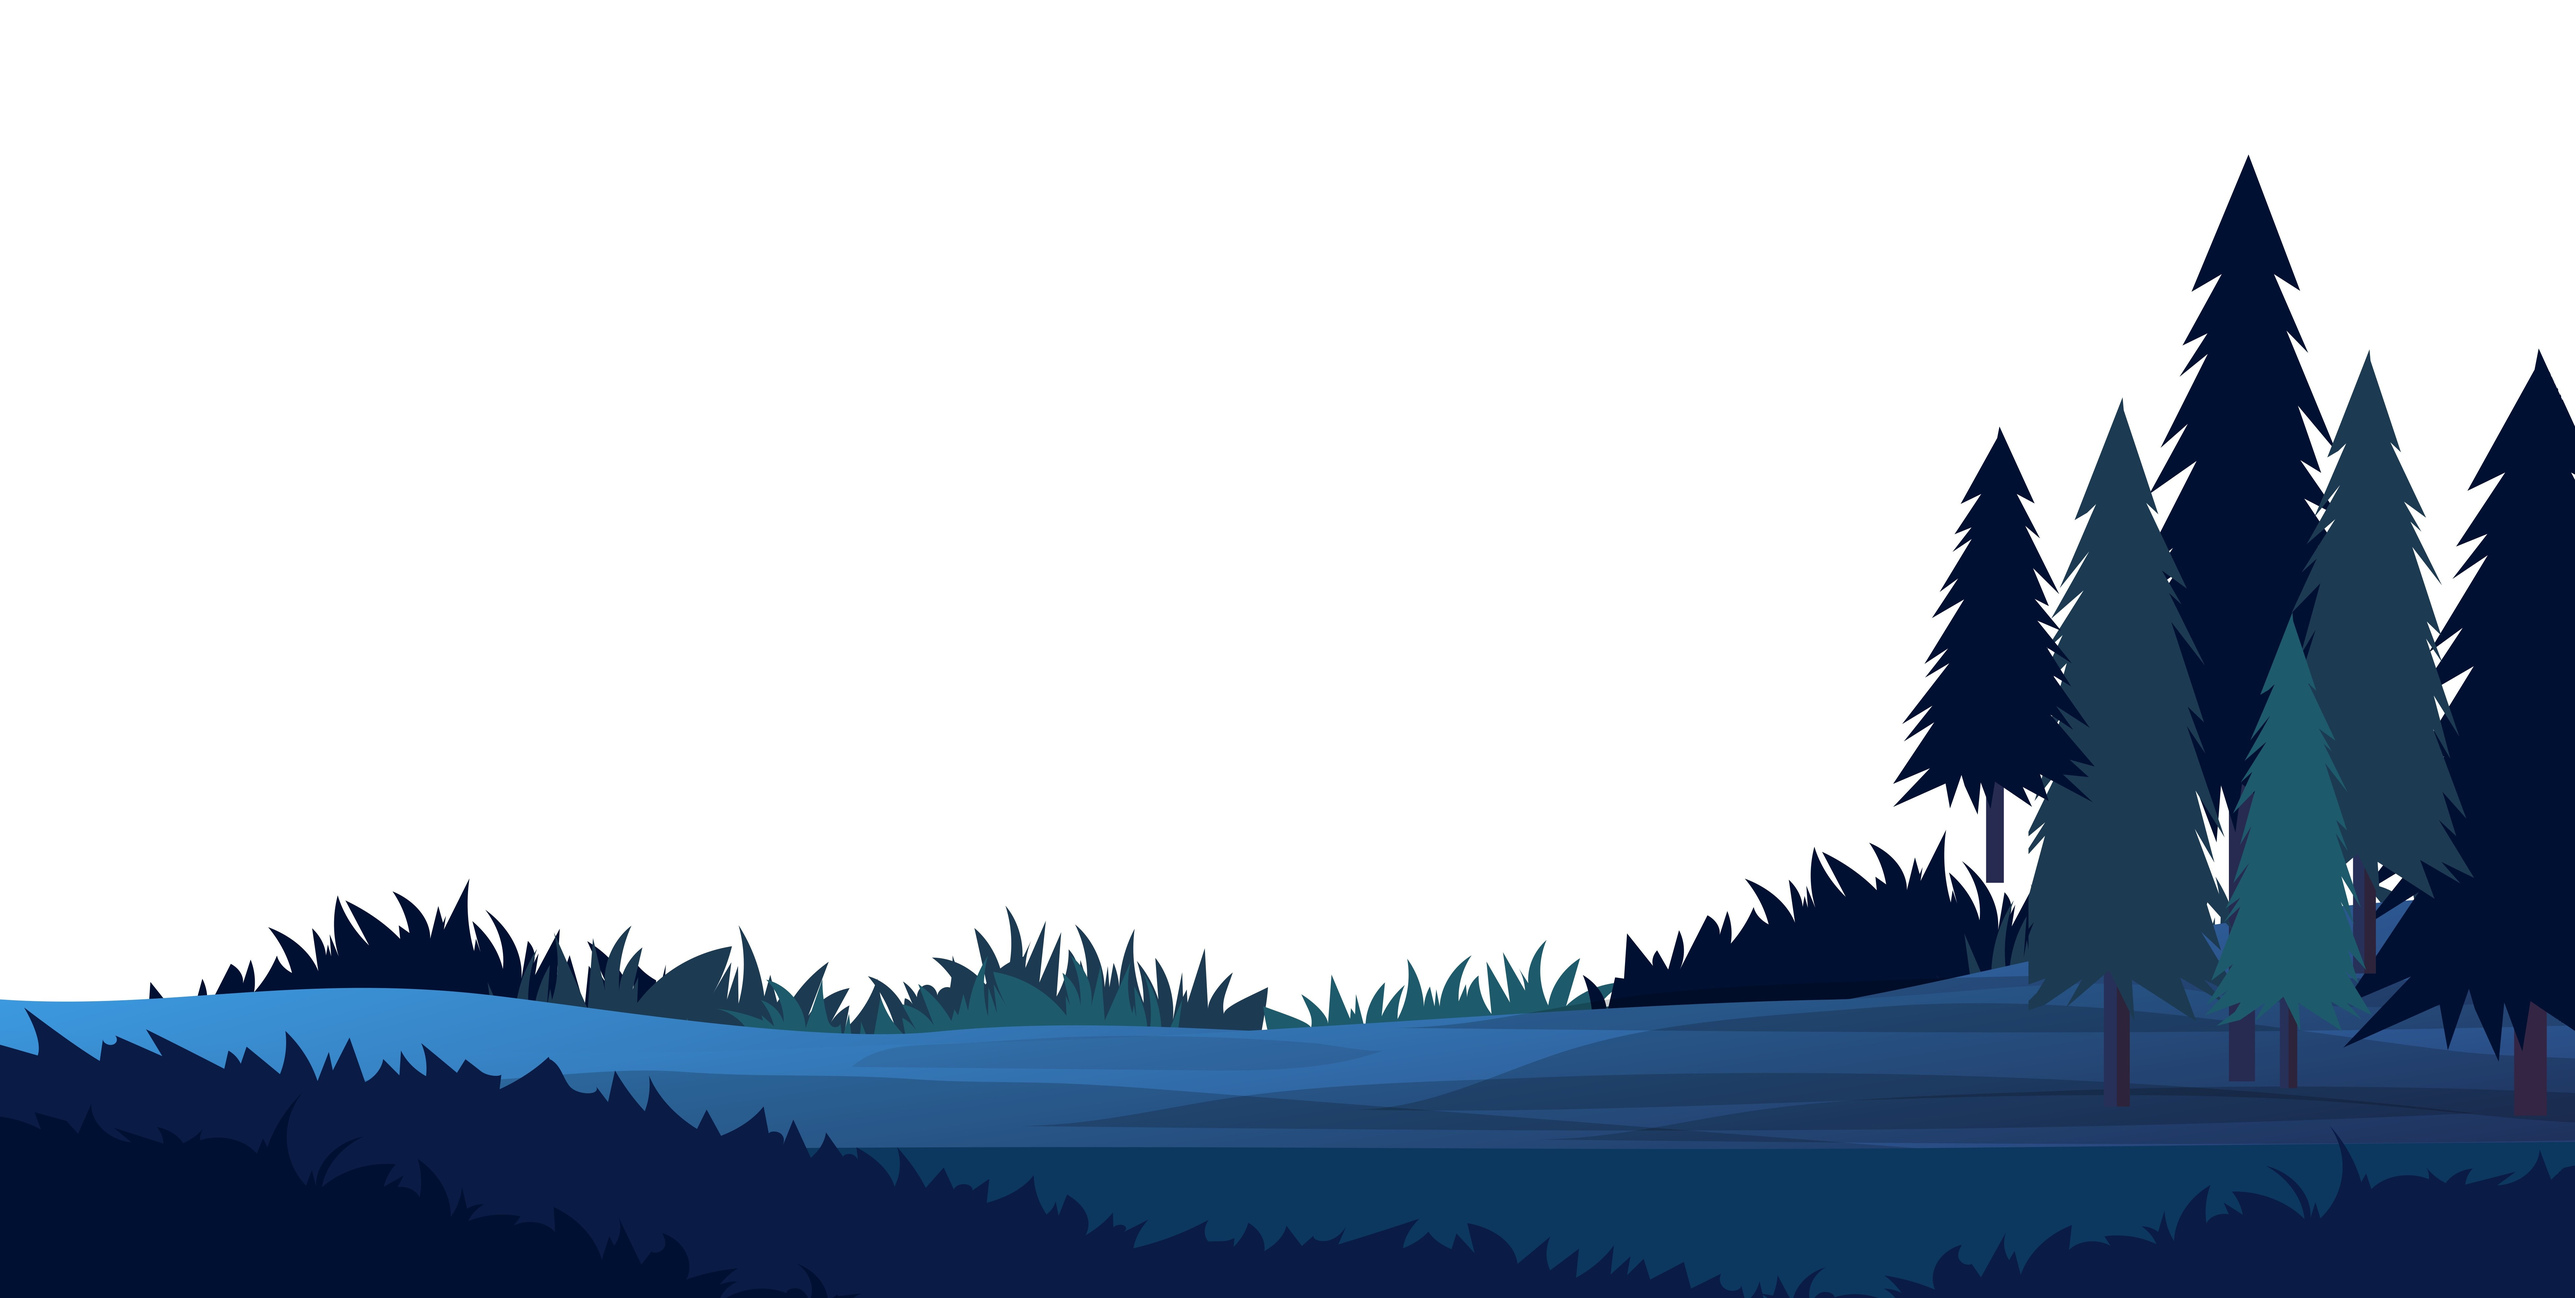
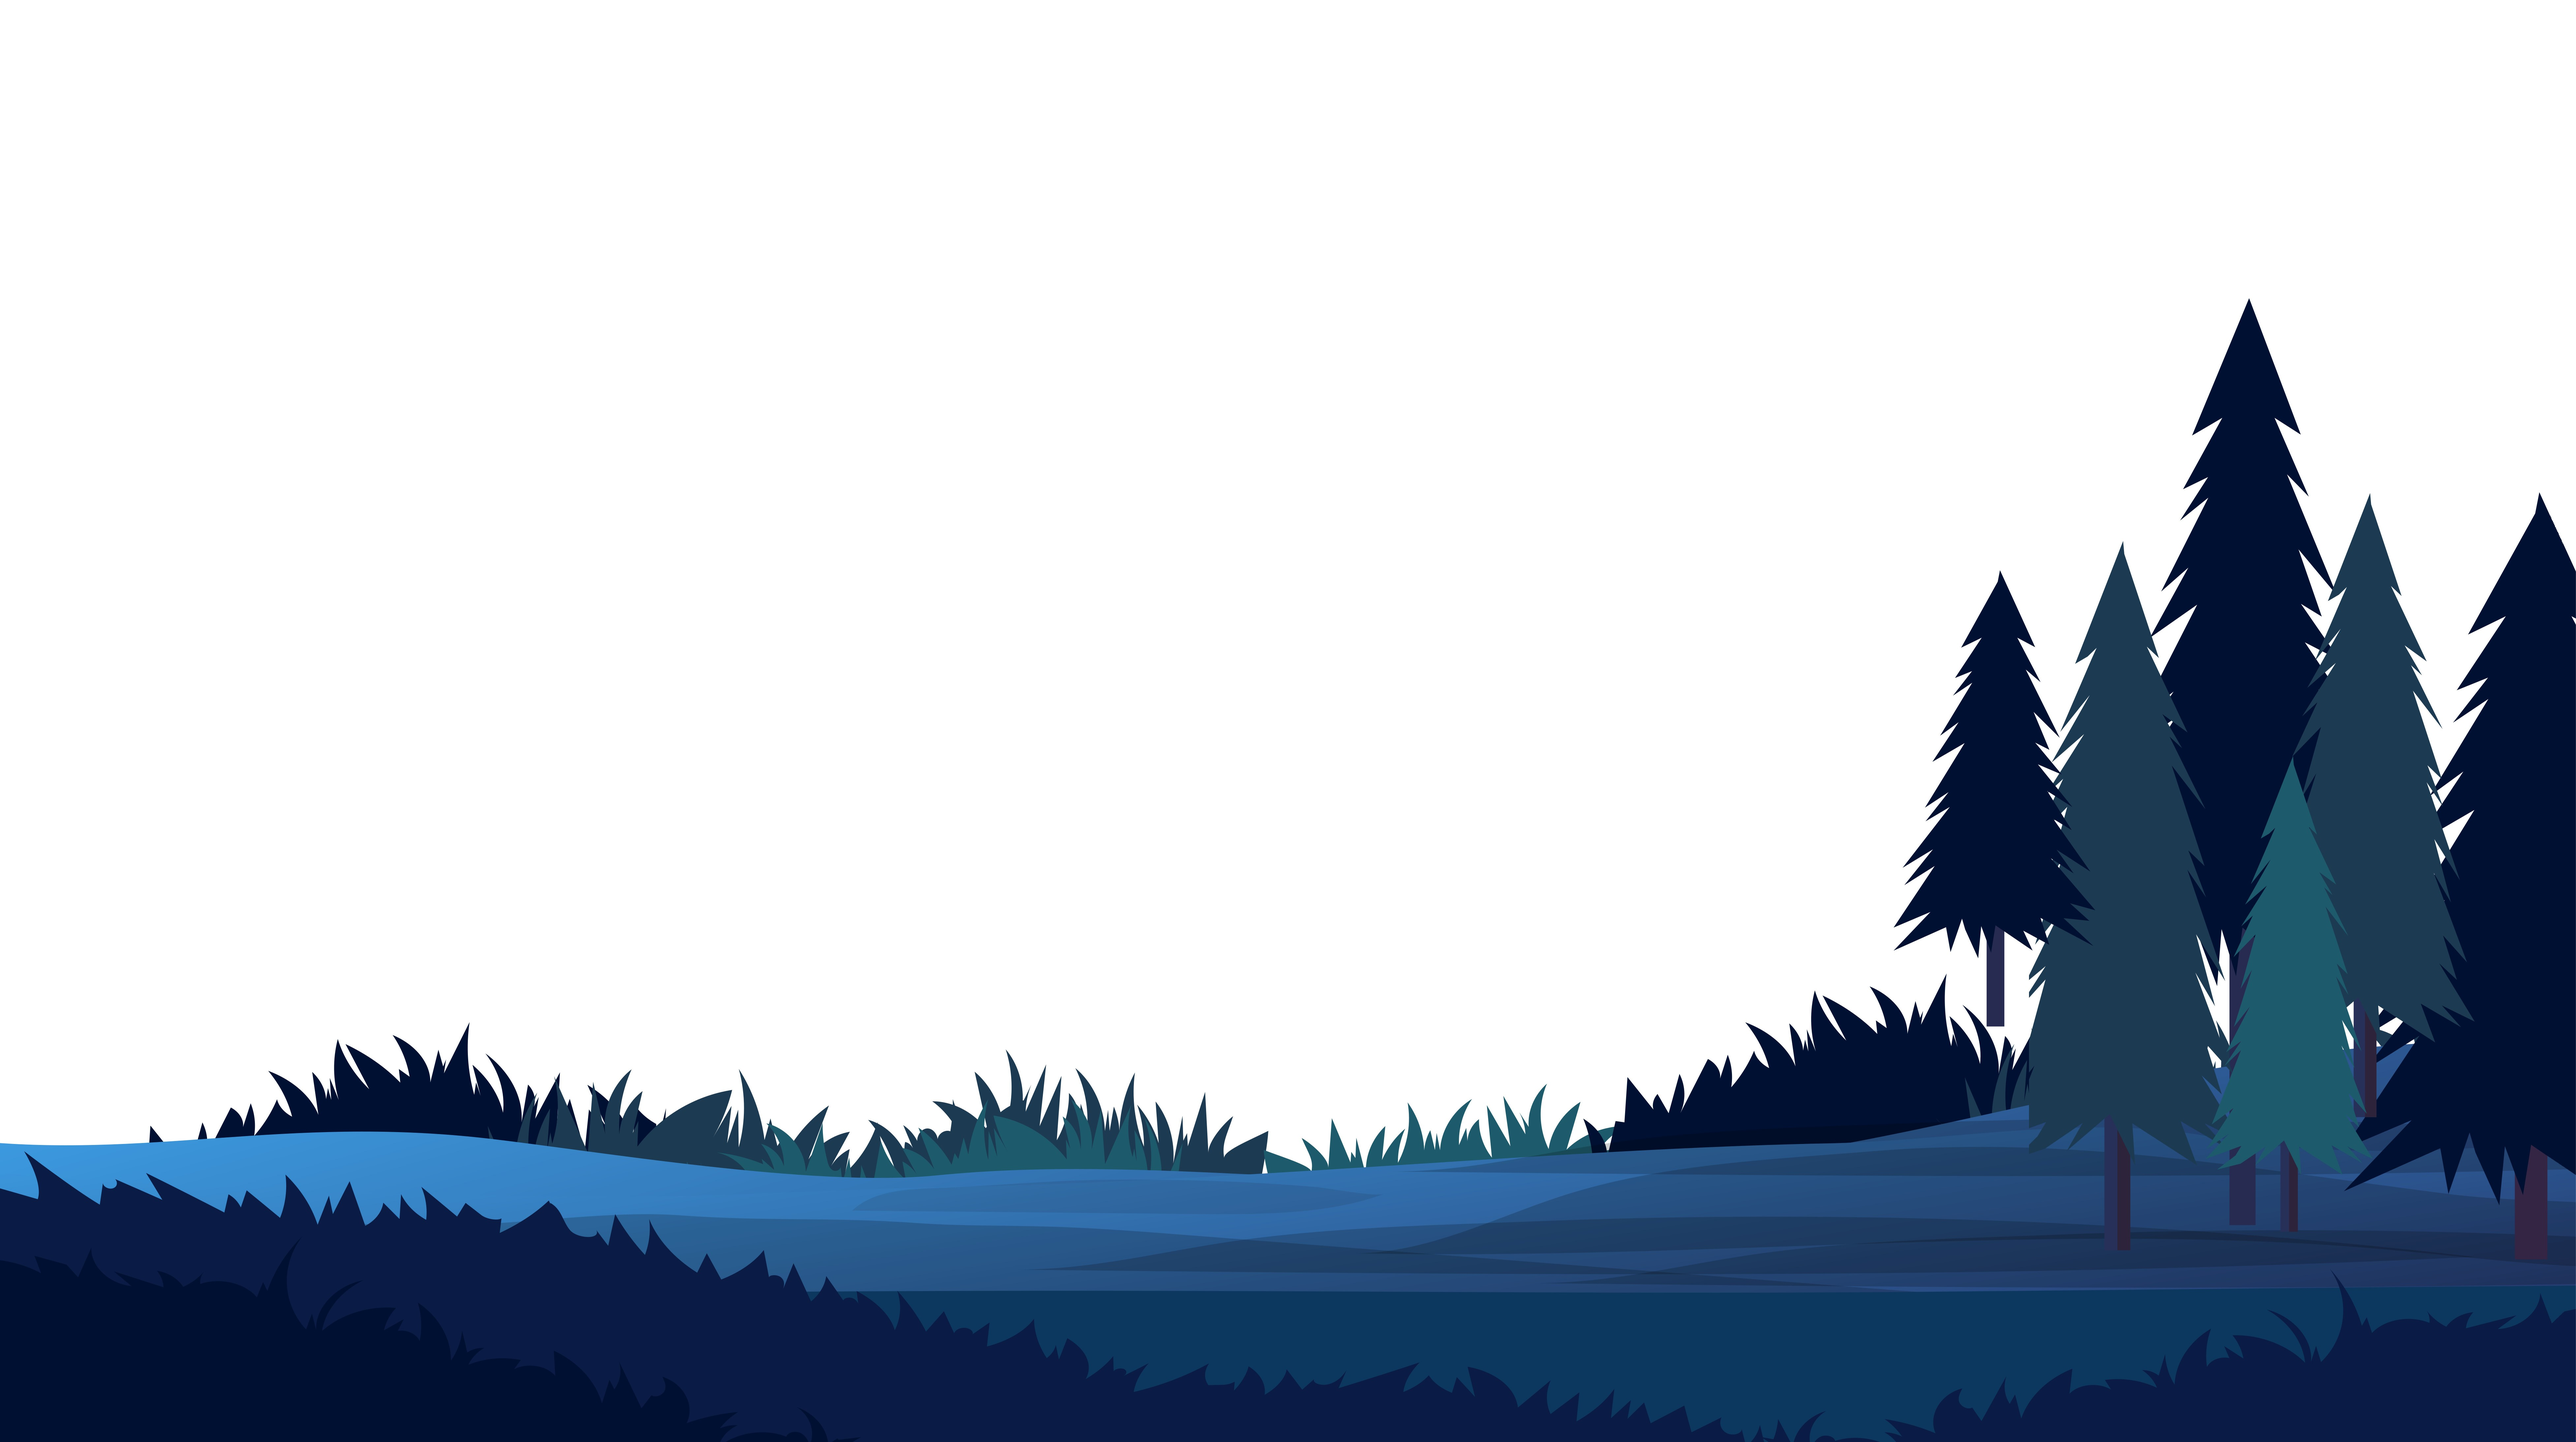
some changes

diff --git a/index.css b/index.css
@@ -1,17 +1,25 @@
 @import url("https://fonts.googleapis.com/css2?family=Lora:wght@600&family=Poppins:wght@400;500;700&display=swap");
-   body{
+*{
+  margin: 0;
+  padding: 0;
+}   
+.home{
         background-image: url('img/new.jpg');
+        background-repeat: no-repeat;
+        height: 103vh;
+        background-attachment: fixed;
         background-size: cover;
-        background-attachment: fixed; /* Optional, to make the background fixed while scrolling */
+        background-position: center;
+        
     }
     .nav_bar{
         display: flex;
-       
         align-items: center;
+        justify-content: center;
         
     }
     .nav_logo img{
-        margin-bottom: -20px;
+        margin-bottom: -10px;
        
     }
     .menu{
@@ -29,6 +37,10 @@
         list-style: none;
         padding: 10px;
         font-family:"poppins",sans-serif;
+    }
+    .nav_btn{
+        display: flex;
+        padding: 10px;
     }
     .nav_btn button{
         border-radius: 5px;
@@ -55,9 +67,9 @@
     font-family: "Times New Roman, Times, serif";
     font-size:3rem;  
 }
-.Home .Home_item{
-    margin-left: 20px;
-    margin-top: 90px;
+   .Home_item{
+    margin-left: 60px;
+    margin-top: 200px;
 }
 /*  bookin css */
 .Booking_form{
@@ -66,10 +78,14 @@
   display: flex;
   padding:35px;
   justify-content:space-evenly;
-  margin-left: -50px;
-  margin-top: 150px;
-  background-color: rgba(255, 255, 255, 0.177);
+  margin-top: 180px;
+  margin-left: 45px;
+  border-radius: 7px;
+  background-color: rgba(255, 255, 255, 0.362);
  
+}
+.book_m{
+    margin-top: -10px;
 }
 
 .Booking_form input{
@@ -80,9 +96,83 @@
     
     
 }
+
 .Booking_form select{
     width: 300px;
     height: 35px;
     border-radius: 4px;
     border-style: none;
 }
+
+
+
+
+
+
+
+.swiper-slide {
+    width: 300px;
+    height: 400px;
+    box-shadow: 0 15px 50px rgba(0, 0, 0, 0.2);
+    filter: blur(1px);
+    border-radius: 10px;
+    display: flex;
+    flex-direction: column;
+    justify-content: end;
+    align-items: self-start;
+  }
+  .swiper-slide span {
+    text-transform: uppercase;
+    color: #fff;
+    background: #1b7402;
+    padding: 7px 18px 7px 25px;
+    display: inline-block;
+    border-radius: 0 20px 20px 0px;
+    letter-spacing: 2px;
+    font-size: 0.8rem;
+    font-family: "Open Sans", sans-serif;
+  }
+  
+  .swiper-slide--one span {
+    background: #62667f;
+  }
+  .swiper-slide h2 {
+    color: #fff;
+    font-family: "Roboto", sans-serif;
+    font-weight: 400;
+    font-size: 1.3rem;
+    line-height: 1.4;
+    margin-bottom: 15px;
+    padding: 25px 45px 0 25px;
+  }
+  
+  .swiper-slide p {
+    color: #fff;
+    font-family: "Roboto", sans-serif;
+    font-weight: 300;
+    display: flex;
+    align-items: center;
+    padding: 0 25px 35px 25px;
+  }
+  .swiper-slide--one {
+    background: linear-gradient(to top, #0f2027, #203a4300, #2c536400),
+      url(img/photo.jpg)
+        no-repeat 50% 50% / cover;
+        filter: blur();
+  }
+  @media only screen and (min-width: 481px) and (max-width: 481px)  {
+    .home{
+      background-image: url('img/new.jpg');
+      background-repeat: no-repeat;
+      background-attachment: fixed;
+      background-size: cover;
+      
+  }
+  .menu{
+    list-style: none;
+    padding: 10px;
+    font-family:"poppins",sans-serif;
+    display: none;
+}
+  }
+  

diff --git a/index.html b/index.html
@@ -7,6 +7,8 @@
   <link rel="stylesheet" href="index.css">
 </head>
 <body>
+  <div class="home">
+  <div class="home_page">
   <div class="nav_bar">
     <div class="nav_logo">
       <img src="./img/logo.svg"alt="">
@@ -15,12 +17,12 @@
      <ul>
       <li>Home</li>
       <li>Camping</li>
-      <li>Packeg</li>
+      <li>Tracking</li>
       <li>Contact</li>
-      <li>News</li>
      </ul>
      <div class="nav_btn">
       <button><a>BOOK NOW</a></button>
+      <button><a>CALL NOW</a></button>
    </div>
    </div>
   </div>
@@ -35,33 +37,52 @@
          tenetur sit culpa optio qui cum, quis<br>
           quam voluptatum assumenda 
       voluptas voluptatibus explicabo.</p>
-      <div class="Booking_form">
-          <div class="booking_name">
-           
-           <input type="text" placeholder="First Name">
-          </div>
-          <div classs="Booking_number">
-          
-           <input type="number" placeholder="Enter Number">
-          </div>
-          <div class="Booking_data">
-     
-           <input type="date">
-          </div>
-          <div class="Booking_location">
-           
-         <select>
-           <option>Balod</option>
-           <option>dalli rajhara</option>
-           <option>durg</option>
-           <option>raipur</option>
-         </select>    
+      
        </div>
-       <div class="Booking-btn">
-        <input type="submit" value="BOOK NOW">
-       </div>
-       </div>
+       <div class="Booking_form">
+        <div class="booking_name">
+         <input type="text" placeholder="First Name">
+        </div>
+        <div classs="Booking_number">
+        
+         <input type="number" placeholder="Enter Number">
+        </div>
+        <div class="Booking_data">
+         <input type="date">
+        </div>
+        <div class="Booking_location">
+       <select>
+         <option>Balod</option>
+         <option>dalli rajhara</option>
+         <option>durg</option>
+         <option>raipur</option>
+       </select>    
+     </div>
+     <div class="Booking-btn">
+      <input type="submit" value="BOOK NOW">
+     </div>
+     </div>
   </div>
+  <div class="some">
+   
+  </div>
+  </div>
+  </div>
+  
+
+     <!--Card-->
+     <div class="swiper-wrapper">
+      <div class="swiper-slide swiper-slide--one">
+        <span>domestic</span>
+        <div>
+          <h2>Enjoy the exotic of sunny Hawaii</h2>
+          <p>
+              <i class="fa-solid fa-location-crosshairs"></i>
+            Balod
+          </p>
+        </div>
+       </div>
+       <!--card-->
 
 
 </body>

diff --git a/Home.html b/Home.html
@@ -1,0 +1,32 @@
+<!DOCTYPE html>
+<html lang="en">
+<head>
+    <meta charset="UTF-8">
+    <meta name="viewport" content="width=device-width, initial-scale=1.0">
+    <title>Document</title>
+    <link rel="stylesheet" href="home.css">
+</head>
+<body>
+    <div class="home_b">
+        <p style="background-image: url('img/new.jpg');">
+
+      </div>
+    </div>
+
+    <style>
+      p{
+    background-image: url("img/new.jpg");
+    background-size: cover;
+    background-repeat: no-repeat;
+}
+
+/* Adjust for smaller screens */
+@media screen and (max-width: 768px) {
+    .home_b{
+        background-image: url('path/to/your-mobile-image.jpg');
+        /* Additional mobile-specific styles */
+    }
+}
+    </style>
+</body>
+</html>

diff --git a/home.css b/home.css
@@ -1,0 +1,14 @@
+/* Default styling for larger screens */
+.home{
+    background-image: url('img/new.jpg');
+    background-size: cover;
+    background-repeat: no-repeat;
+}
+
+/* Adjust for smaller screens */
+@media screen and (max-width: 768px) {
+    .home_b{
+        background-image: url('path/to/your-mobile-image.jpg');
+        /* Additional mobile-specific styles */
+    }
+}
